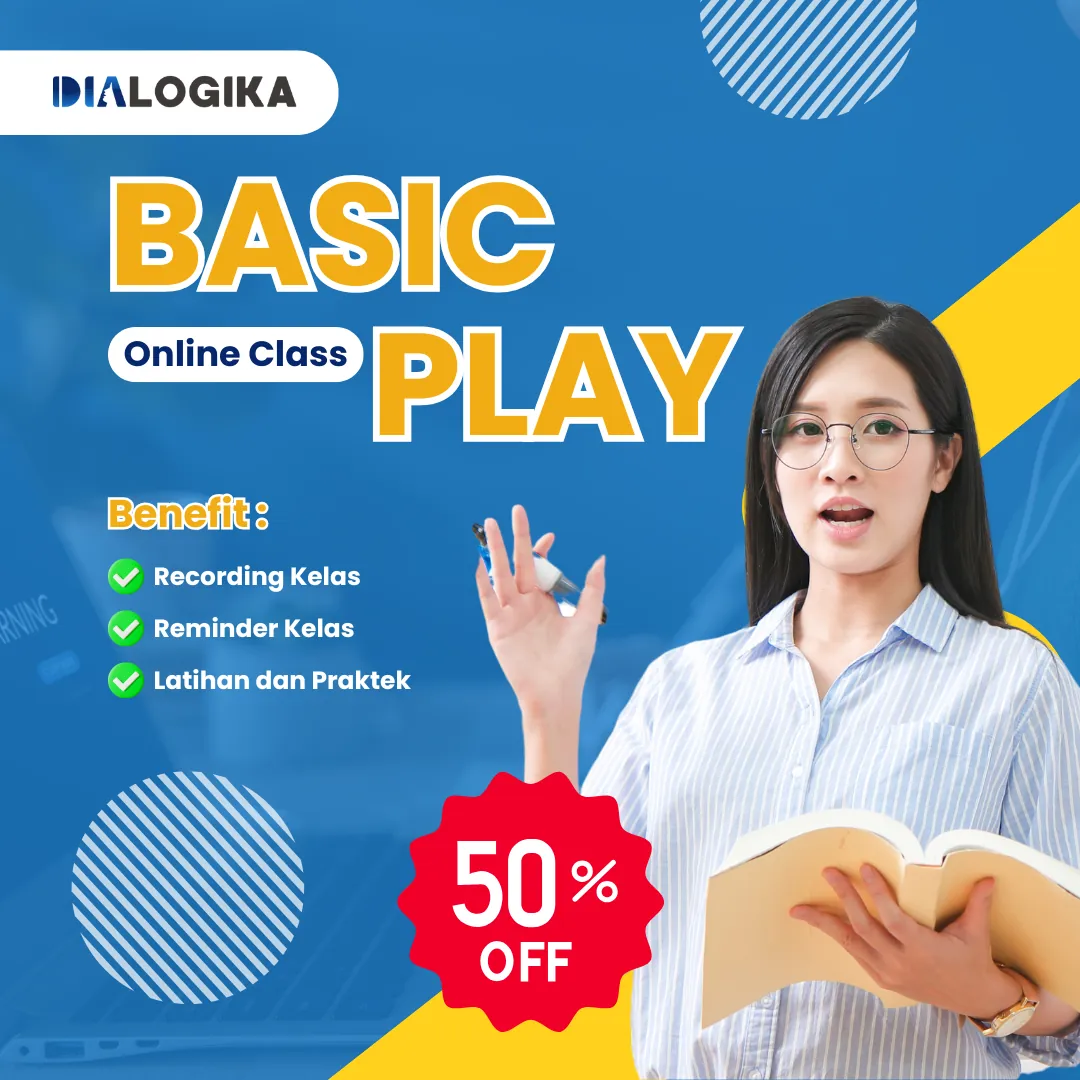
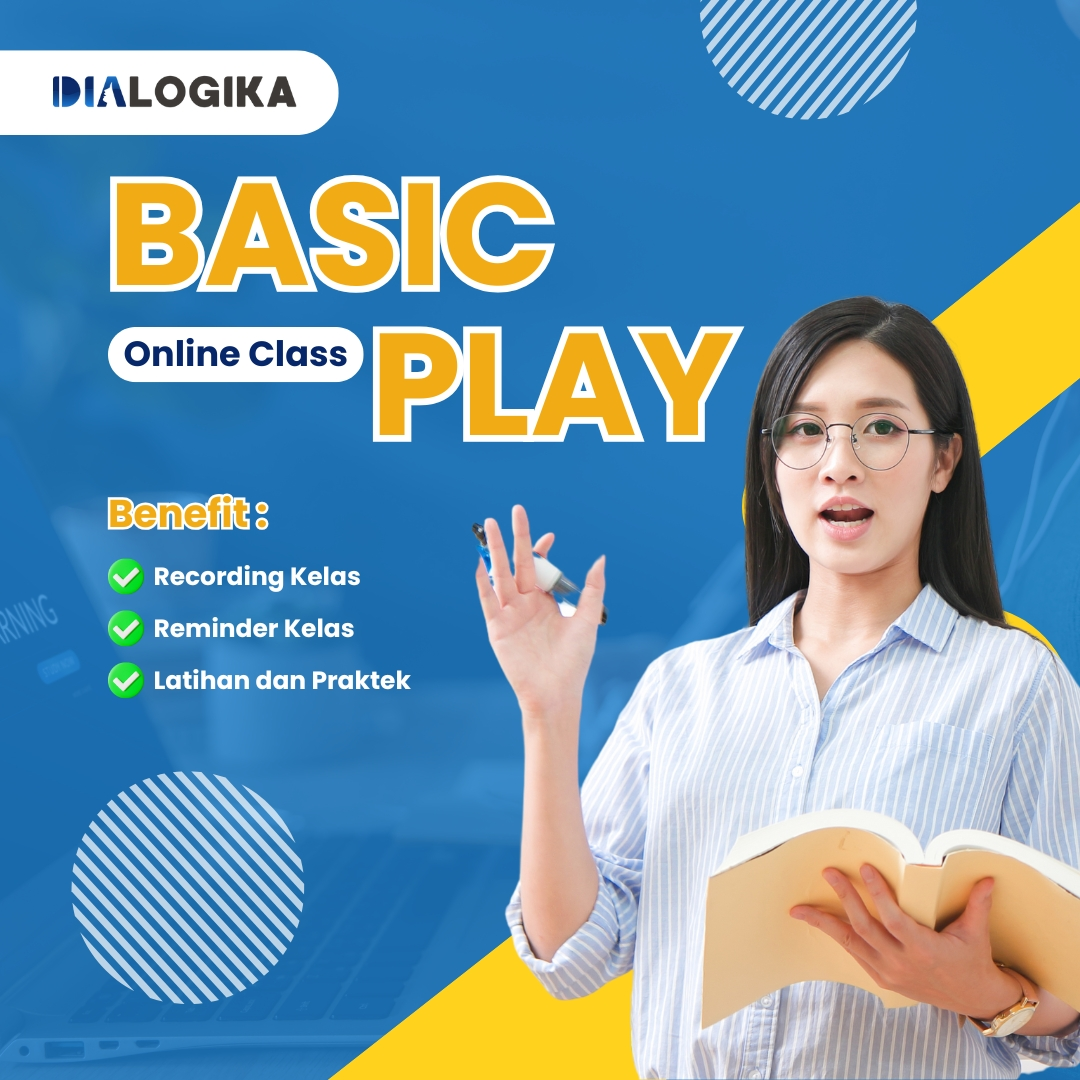
menambahkan popup iklan di10 list wesite

Changed region(s): [[0.3667, 0.7028, 0.6111, 0.9778]]

diff --git a/game-komunikasi-efektif.html b/game-komunikasi-efektif.html
@@ -427,7 +427,7 @@ In your html page, add the snippet and call gtag_report_conversion when someone 
 
                                 <div class="img-control mt-4">
                                     <a href="https://www.dialogika.co/program/basic-play.html" target="_blank">
-                                        <img src="asset/img/iklan/basic-play-21x7-erico.webp" class="img-fluid rounded"
+                                        <img src="asset/img/iklan/basic-play-1x1-erico.webp" class="img-fluid rounded"
                                             alt="Program kelas online dialogika" />
                                     </a>
                                 </div>
@@ -1059,6 +1059,26 @@ In your html page, add the snippet and call gtag_report_conversion when someone 
         </div>
     </div>
 
+    <!-- Modal Iklan -->
+    <div class="modal fade" id="adModal" tabindex="-1" aria-labelledby="adModalLabel" aria-hidden="true">
+        <div class="modal-dialog modal-dialog-centered">
+            <div class="modal-content">
+                <div class="modal-header">
+                    <h5 class="modal-title" id="adModalLabel">Program Kelas Online</h5>
+                    <button type="button" class="btn-close" data-bs-dismiss="modal" aria-label="Close"></button>
+                </div>
+                <div class="modal-body text-center">
+                    <a href="https://www.dialogika.co/program/basic-plus.html" target="_blank">
+                        <img src="asset/img/iklan/basic-plus2-1x1-erico.webp" class="img-fluid rounded"
+                            alt="Program kelas online dialogika" />
+                    </a>
+                </div>
+            </div>
+        </div>
+    </div>
+
+    
+
     <!-- <div id="preloader"></div> -->
     <form action="https://link.dialogika.co/blog-whatsapp">
         <button class="scroll__top scroll-to-target"><i class='bx bxl-whatsapp bx-tada'></i></button>
@@ -1091,6 +1111,12 @@ In your html page, add the snippet and call gtag_report_conversion when someone 
     <script src="assets/vendor/sarsajs/ajax-form.js"></script>
     <script src="assets/vendor/sarsajs/wow.min.js"></script>
     <script src="assets/vendor/sarsajs/main.js"></script>
+
+        <!-- Part JS -->
+        <script src="asset/part/modals/modal-component.js"></script>
+        <script src="asset/part/modals/modal-iklan.js"></script>
+        <script src="asset/part/blog-content/blog.js"></script>
+
 
     <!-- Template Main JS File -->
     <script src="assets/js/main.js"></script>

diff --git a/adaptasi-di-sekolah-baru.html b/adaptasi-di-sekolah-baru.html
@@ -1030,6 +1030,24 @@ In your html page, add the snippet and call gtag_report_conversion when someone 
         <button class="scroll__top scroll-to-target"><i class='bx bxl-whatsapp bx-tada'></i></button>
     </form>
 
+    <!-- Modal Iklan -->
+    <div class="modal fade" id="adModal" tabindex="-1" aria-labelledby="adModalLabel" aria-hidden="true">
+        <div class="modal-dialog modal-dialog-centered">
+            <div class="modal-content">
+                <div class="modal-header">
+                    <h5 class="modal-title" id="adModalLabel">Program Kelas Online</h5>
+                    <button type="button" class="btn-close" data-bs-dismiss="modal" aria-label="Close"></button>
+                </div>
+                <div class="modal-body text-center">
+                    <a href="https://www.dialogika.co/program/basic-plus.html" target="_blank">
+                        <img src="asset/img/iklan/basic-plus2-1x1-erico.webp" class="img-fluid rounded"
+                            alt="Program kelas online dialogika" />
+                    </a>
+                </div>
+            </div>
+        </div>
+    </div>
+
     <!--  Component JS -->
     <script src="assets/js/component/headerfooter.js"></script>
     <!-- Vendor JS Files -->
@@ -1057,6 +1075,11 @@ In your html page, add the snippet and call gtag_report_conversion when someone 
     <script src="assets/vendor/sarsajs/ajax-form.js"></script>
     <script src="assets/vendor/sarsajs/wow.min.js"></script>
     <script src="assets/vendor/sarsajs/main.js"></script>
+
+    <!-- Part JS -->
+    <script src="asset/part/modals/modal-component.js"></script>
+    <script src="asset/part/modals/modal-iklan.js"></script>
+    <script src="asset/part/blog-content/blog.js"></script>
 
     <!-- Template Main JS File -->
     <script src="assets/js/main.js"></script>

diff --git a/skill-yang-harus-dimiliki-seorang-marketing.html b/skill-yang-harus-dimiliki-seorang-marketing.html
@@ -1205,6 +1205,24 @@ In your html page, add the snippet and call gtag_report_conversion when someone 
         <button class="scroll__top scroll-to-target"><i class='bx bxl-whatsapp bx-tada'></i></button>
     </form>
 
+    <!-- Modal Iklan -->
+    <div class="modal fade" id="adModal" tabindex="-1" aria-labelledby="adModalLabel" aria-hidden="true">
+        <div class="modal-dialog modal-dialog-centered">
+            <div class="modal-content">
+                <div class="modal-header">
+                    <h5 class="modal-title" id="adModalLabel">Program Kelas Online</h5>
+                    <button type="button" class="btn-close" data-bs-dismiss="modal" aria-label="Close"></button>
+                </div>
+                <div class="modal-body text-center">
+                    <a href="https://www.dialogika.co/program/basic-play.html" target="_blank">
+                        <img src="asset/img/iklan/basic-play-1x1-erico.webp" class="img-fluid rounded"
+                            alt="Program kelas online dialogika" />
+                    </a>
+                </div>
+            </div>
+        </div>
+    </div>
+
     <!--  Component JS -->
     <script src="assets/js/component/headerfooter.js"></script>
     <!-- Vendor JS Files -->
@@ -1232,6 +1250,13 @@ In your html page, add the snippet and call gtag_report_conversion when someone 
     <script src="assets/vendor/sarsajs/ajax-form.js"></script>
     <script src="assets/vendor/sarsajs/wow.min.js"></script>
     <script src="assets/vendor/sarsajs/main.js"></script>
+
+    <!-- Part JS -->
+<script src="asset/part/modals/modal-component.js"></script>
+<script src="asset/part/modals/modal-iklan.js"></script>
+<script src="asset/part/blog-content/blog.js"></script>
+
+
 
     <!-- Template Main JS File -->
     <script src="assets/js/main.js"></script>

diff --git a/cara-memanipulasi-lawan-bicara.html b/cara-memanipulasi-lawan-bicara.html
@@ -1019,6 +1019,24 @@ In your html page, add the snippet and call gtag_report_conversion when someone 
     <main-footer></main-footer>
     <!-- End Footer -->
 
+    <!-- Modal Iklan -->
+    <div class="modal fade" id="adModal" tabindex="-1" aria-labelledby="adModalLabel" aria-hidden="true">
+        <div class="modal-dialog modal-dialog-centered">
+            <div class="modal-content">
+                <div class="modal-header">
+                    <h5 class="modal-title" id="adModalLabel">Program Kelas Online</h5>
+                    <button type="button" class="btn-close" data-bs-dismiss="modal" aria-label="Close"></button>
+                </div>
+                <div class="modal-body text-center">
+                    <a href="https://www.dialogika.co/program/basic-plus.html" target="_blank">
+                        <img src="asset/img/iklan/basic-plus-1x1-erico.webp" class="img-fluid rounded"
+                            alt="Program kelas online dialogika" />
+                    </a>
+                </div>
+            </div>
+        </div>
+    </div>
+
     <!-- ======= Modal Nofication ======= -->
     <div class="modal fade" id="notifications" tabindex="-1">
         <div class="modal-dialog modal-dialog-centered">
@@ -1148,6 +1166,10 @@ In your html page, add the snippet and call gtag_report_conversion when someone 
     <script src="assets/vendor/sarsajs/ajax-form.js"></script>
     <script src="assets/vendor/sarsajs/wow.min.js"></script>
     <script src="assets/vendor/sarsajs/main.js"></script>
+
+    <!-- Part JS -->
+    <script src="asset/part/modals/modal-iklan.js"></script>
+
 
     <!-- Template Main JS File -->
     <script src="assets/js/main.js"></script>
